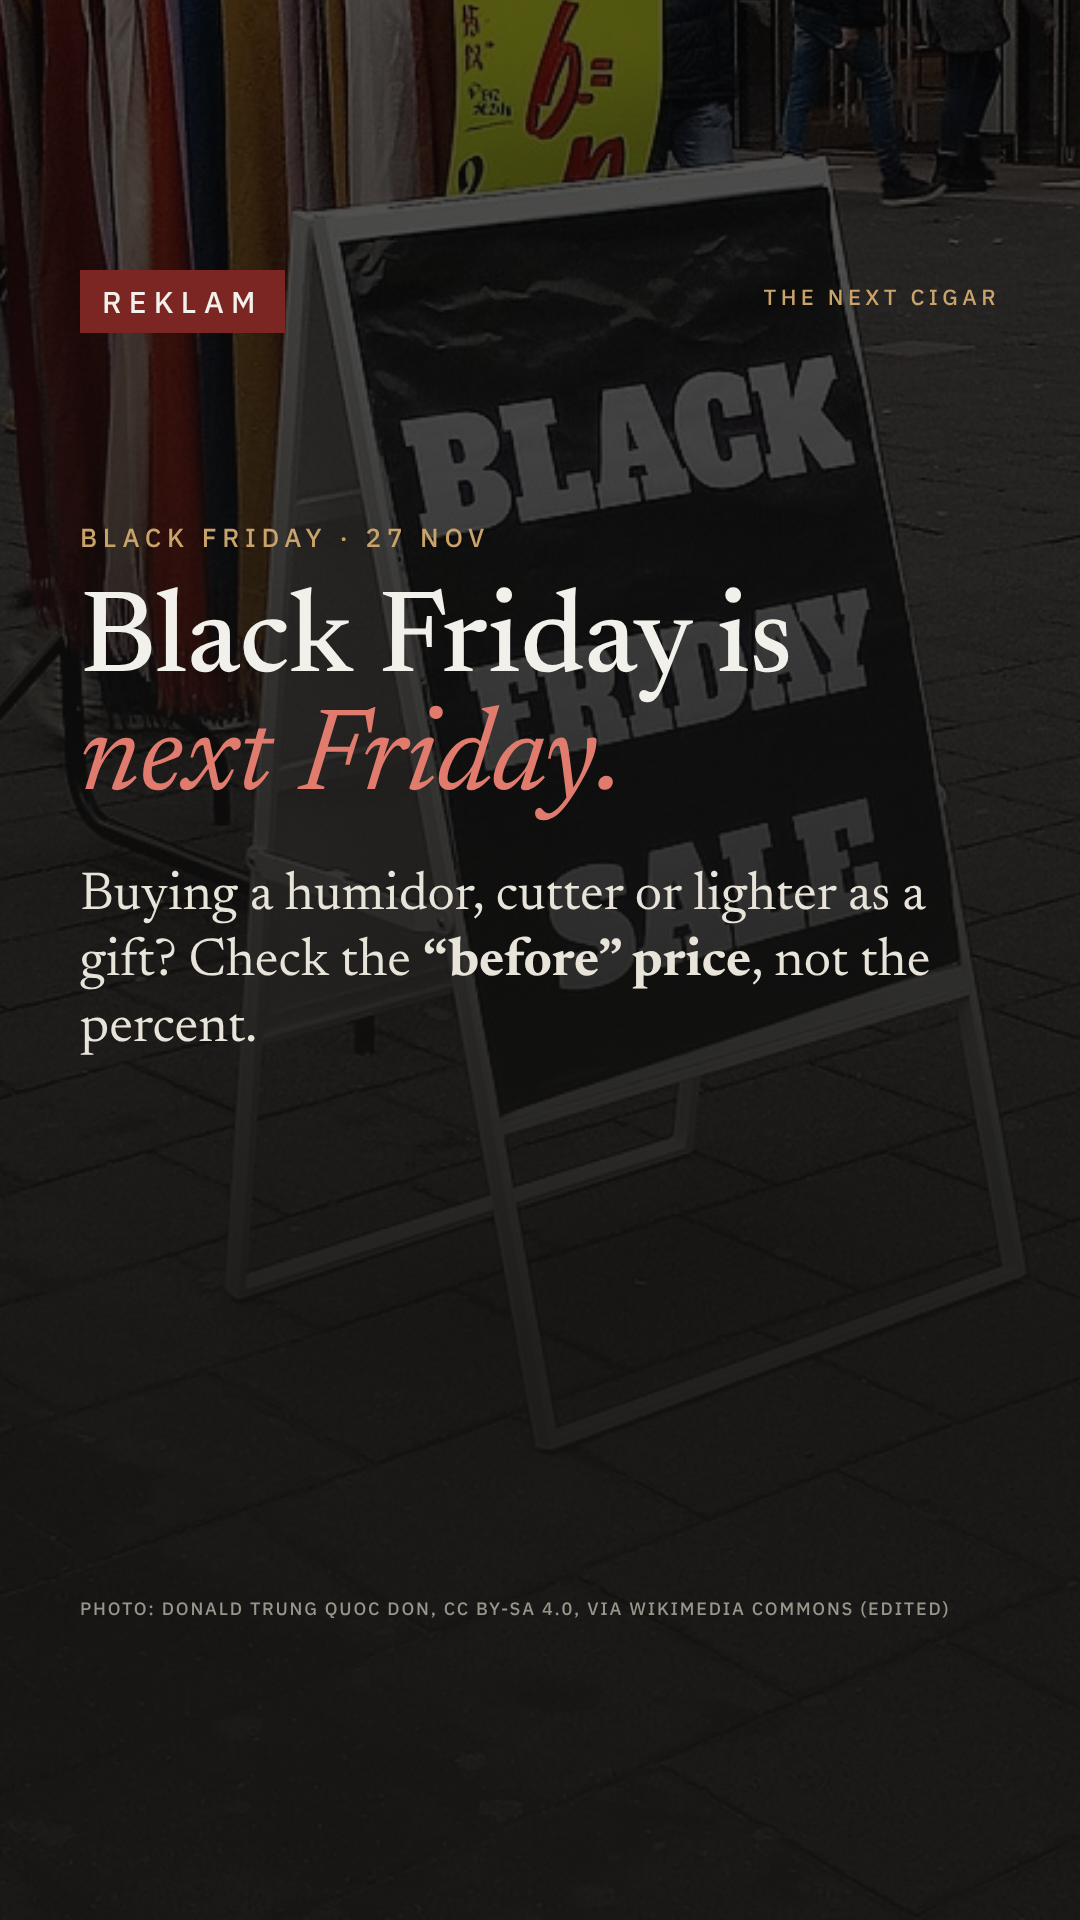
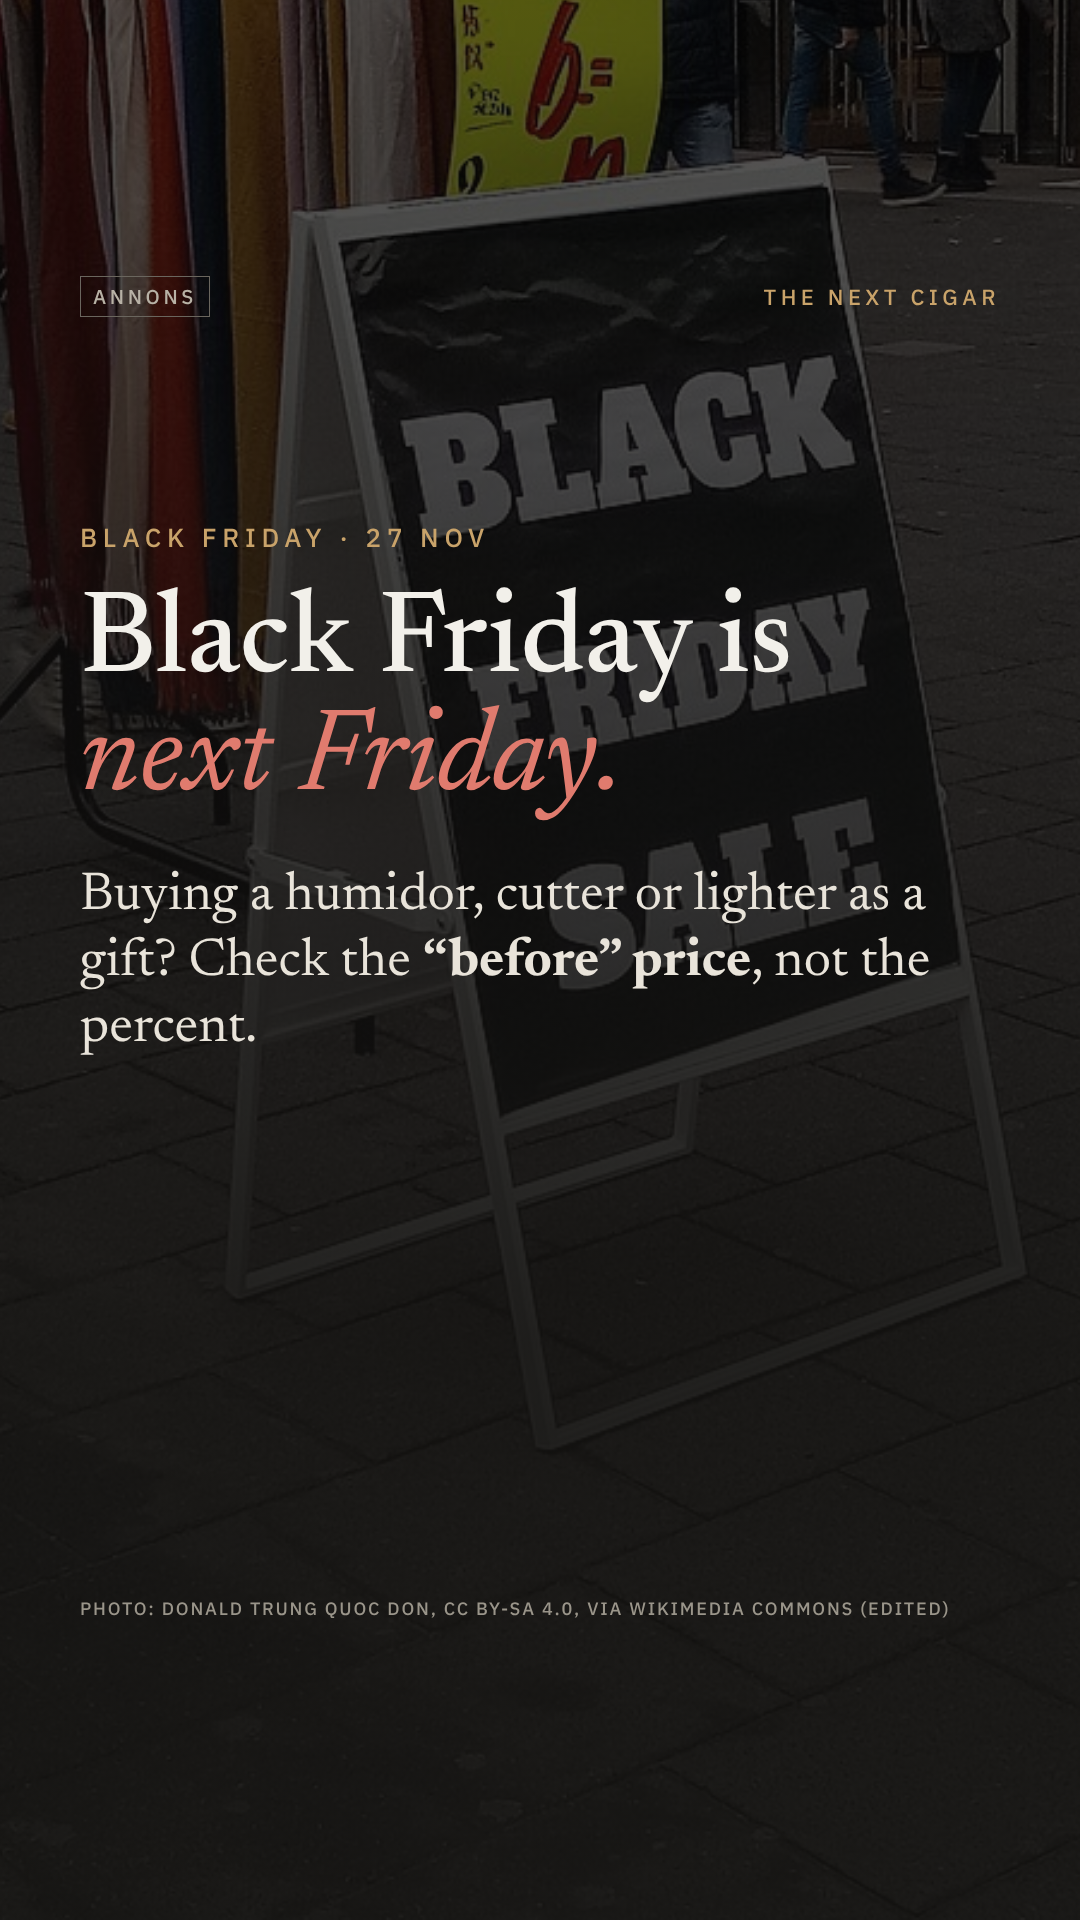
BF Story: small Annons tag instead of red Reklam block
Claude-Session: https://claude.ai/code/session_01NDc9TrKsSQw4dbaGwkoFWp

Changed region(s): [[0.0611, 0.125, 0.275, 0.1875]]

diff --git a/docs/social/black-friday-plan-2026.md b/docs/social/black-friday-plan-2026.md
@@ -3,19 +3,19 @@
 Black Friday is Fri 27 Nov 2026, Cyber Monday is Mon 30 Nov. Our page: /blog/black-friday-cigar-accessory-deals-2026/ (22 accessories, no prices shown, Amazon affiliate links).
 
 ## Rules
-- Social stays news. Black Friday posts are **advertising**: every one starts with "Reklam" and only links to the Black Friday page or the accessories guides. No cigars, no tobacco brands, no prices, no "best price" claims.
+- Social stays news. Black Friday posts are **advertising**: every one carries a small "Annons" tag and only links to the Black Friday page or the accessories guides. No cigars, no tobacco brands, no prices, no "best price" claims.
 - The bio link stays on the homepage. Affiliate links only go in labelled Stories.
 - Nothing about tobacco products is promoted. The page covers accessories only (humidors, hygrometers, cutters, lighters, cases, glassware, books).
 
 ## Calendar
 | When | Where | What | Status |
 |---|---|---|---|
-| Fri 20 Nov, 18:30 | Instagram Story (2 frames) | Frame 1: "Reklam · Black Friday is next Friday. Buying a humidor, cutter or lighter as a gift? Check the 'before' price, not the percent." Frame 2: "The 22 accessories we're watching and how to spot a fake deal" + link sticker to the BF page (utm_campaign=bf-week). | Ready to post (Cris) |
+| Fri 20 Nov, 18:30 | Instagram Story (2 frames) | Frame 1: "Annons · Black Friday is next Friday. Buying a humidor, cutter or lighter as a gift? Check the 'before' price, not the percent." Frame 2: "The 22 accessories we're watching and how to spot a fake deal" + link sticker to the BF page (utm_campaign=bf-week). | Ready to post (Cris) |
 | Sat 21 Nov, 09:00 | Dispatch No. 2 | Section 04 "Black Friday, the real deals", labelled "Advertising · affiliate links" | Draft, needs Cris's yes |
 | Wed 25 Nov | Site (Claude) | Check that all 22 links on the BF page still open a live listing; swap any dead ones; commit; Cris pushes | To do |
-| Fri 27 Nov, 10:00 | Instagram Story (1 frame) | "Reklam · Black Friday is today. The accessories we're watching, and three checks before you buy" + link sticker (utm_campaign=bf-day) | To do |
+| Fri 27 Nov, 10:00 | Instagram Story (1 frame) | "Annons · Black Friday is today. The accessories we're watching, and three checks before you buy" + link sticker (utm_campaign=bf-day) | To do |
 | Fri 27 Nov, 18:30 | Facebook page | Same as the Story, as a labelled link post | To do |
-| Mon 30 Nov, 10:00 | Instagram Story (1 frame) | "Reklam · Cyber Monday, last day" + link sticker (utm_campaign=cyber-monday) | To do |
+| Mon 30 Nov, 10:00 | Instagram Story (1 frame) | "Annons · Cyber Monday, last day" + link sticker (utm_campaign=cyber-monday) | To do |
 | Tue 1 Dec | Claude | Report: clicks and orders by tracking ID for 20–30 Nov (Associates Central) | To do |
 
 ## The one thing that would lift sales most: product images back
